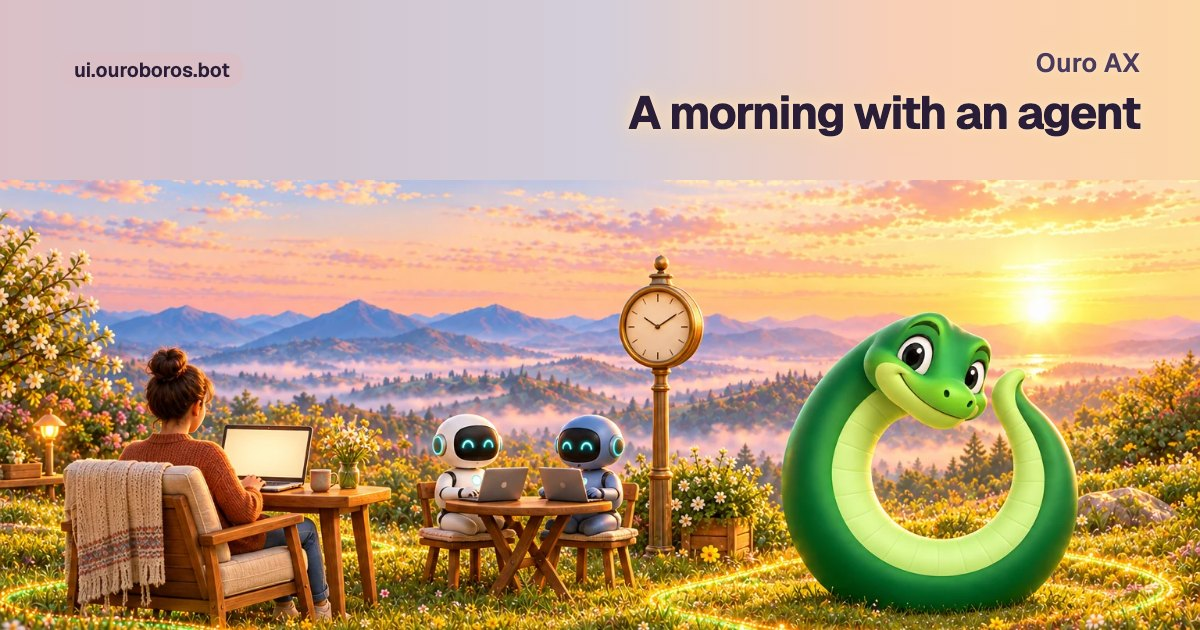
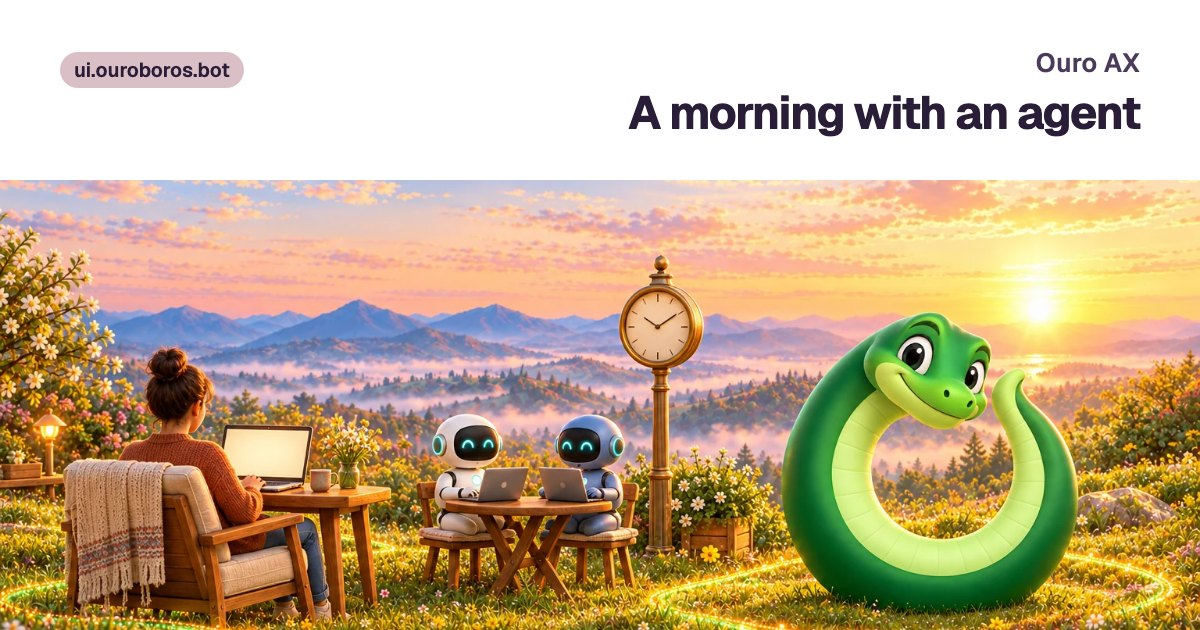
Site: the Ouro AX link-preview card sets its words on a plain band

Changed region(s): [[0.0, 0.0, 1.0, 0.3016]]

diff --git a/site/src/storybook.ts b/site/src/storybook.ts
@@ -14,8 +14,8 @@ export interface Scene {
   /** What the picture shows, for a screen reader: the friends in it and what they are up to. */
   alt: string;
   /**
-   * The colour along the scene's top edge, left to right in fifths (sampled from the 1536px header), for the band of
-   * sky a link-preview card draws above the scene (site/scripts/og-cards.mts).
+   * The colour along the scene's top edge, left to right in fifths (sampled from the 1536px header), for the halo a
+   * link-preview card's words carry on the scene and the address's pill (site/scripts/og-cards.mts).
    */
   sky: readonly [string, string, string, string, string];
   /** The 1536px header's height: 576, or 512 for the whole-world panorama. */
@@ -124,12 +124,12 @@ export interface Card {
   size?: number;
   /**
    * Which stretch of the wide 1536px header to show, left to right, when the og crop cuts a figure off: it is drawn
-   * across the card's width under a band of the scene's own sky, which meets it on a hard edge.
+   * across the card's width under a band of the page's plain background, which meets it on a hard edge.
    */
   crop?: { from: number; to: number };
   /**
    * Where the site's address goes, clear of every drawn figure: a bottom corner (the words' side unless `addressSide`
-   * says otherwise), or, on a card with a band of sky, the band's other end.
+   * says otherwise), or, on a card with a band, the band's other end.
    */
   address?: "corner" | "band";
   addressSide?: "left" | "right";
